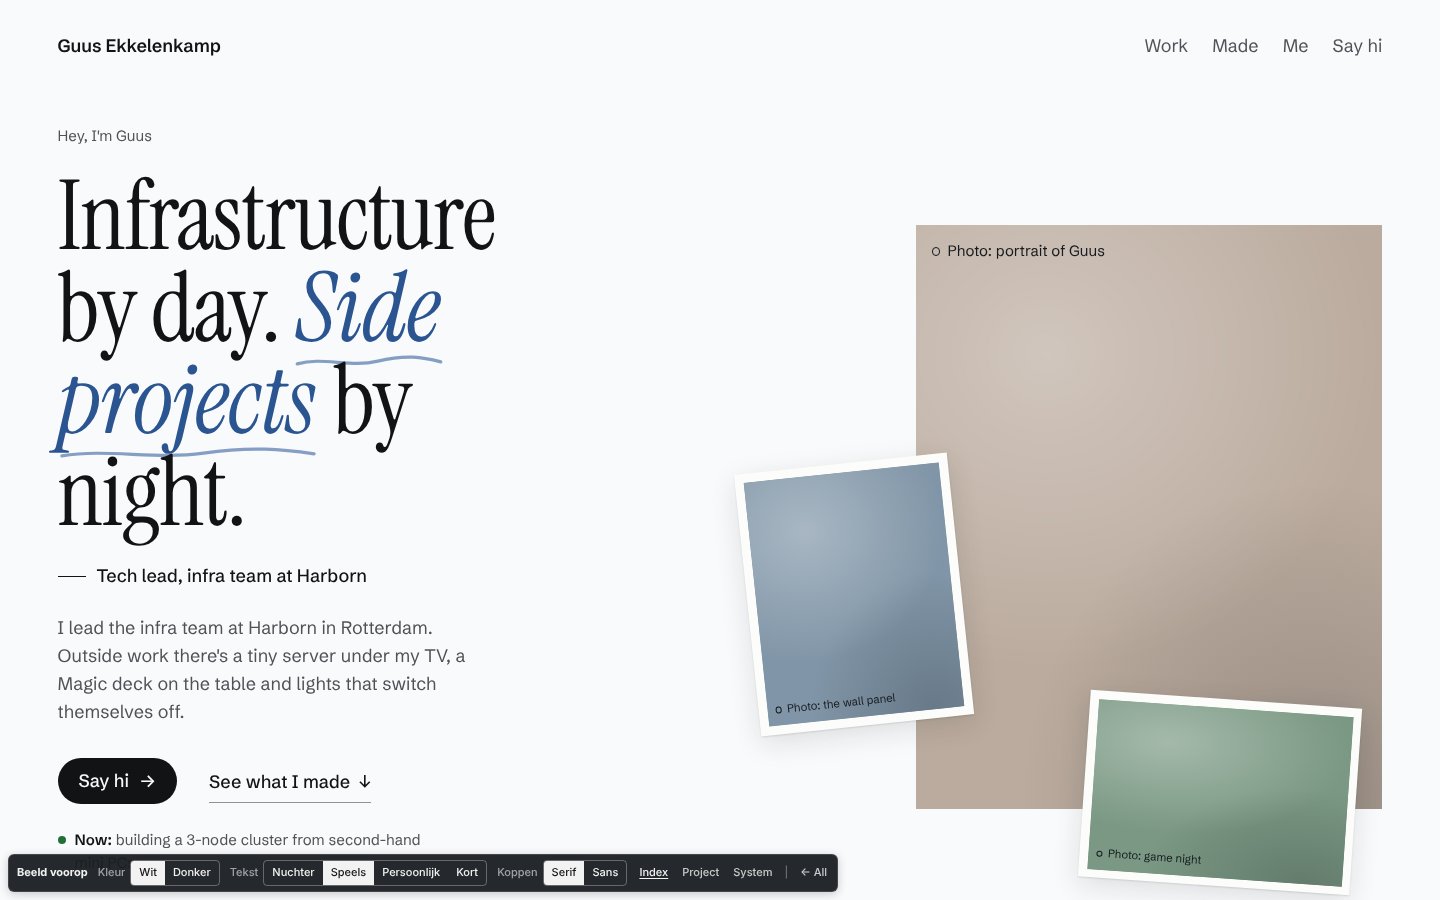
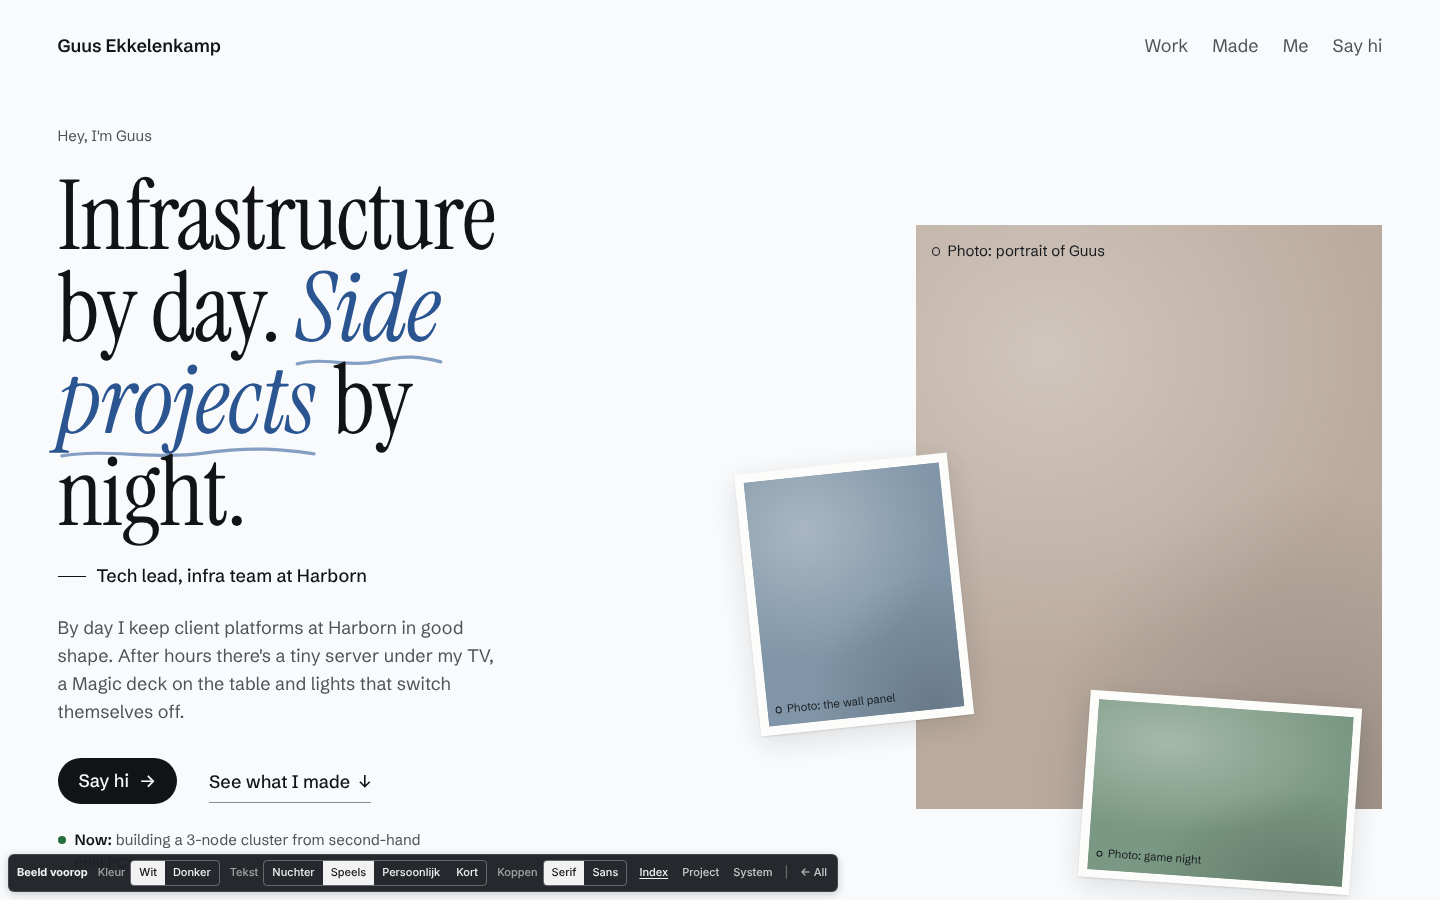
Beeld voorop: playful pass, copy voices and heading styles
Claude-Session: https://claude.ai/code/session_01MZiGAcmWGZMW18cgyC5YR7

Changed region(s): [[0.0312, 0.6844, 0.3438, 0.7778]]

diff --git a/design/directions/r2-beeld/system.html b/design/directions/r2-beeld/system.html
@@ -85,7 +85,7 @@
       </div>
 
       <h3 class="h3" style="margin-block: var(--space-2xl) var(--space-xs)">Photo tones</h3>
-      <p class="sg-note">One muted colour per image, the same in both options, because a real photo doesn&rsquo;t change with the background. Each placeholder gets a soft light fall-off and a faint grain so it reads as a photo slot, not a grey box. Label ink on each tone is measured too.</p>
+      <p class="sg-note">Each project also has its own <em>ink</em> (its tone, deepened per option) for the caption dot, hover colour and the image-label chip. One muted colour per image, the same in both options, because a real photo doesn&rsquo;t change with the background. Each placeholder gets a soft light fall-off and a faint grain so it reads as a photo slot, not a grey box. Label ink on each tone is measured too.</p>
       <div class="tones" id="tones"></div>
     </div>
   </section>
@@ -94,11 +94,12 @@
     <div class="page">
       <h2 class="h2" id="type-title">Type</h2>
       <p class="sg-note"><strong>Instrument Serif</strong> for big moments only: the intro headline, section titles, project titles, numbers and the email address. It&rsquo;s condensed and elegant, so a large headline sits calmly next to a portrait like a magazine cover line. <strong>Schibsted Grotesk</strong> for everything else: a newspaper-born sans with sturdy, slightly quirky shapes that keeps captions and body text clear without feeling like a default UI font.</p>
-      <div class="type-row"><code>--step-hero · serif</code><p class="display" style="font-size: var(--step-hero)">I&rsquo;m Guus.</p></div>
-      <div class="type-row"><code>--step-giant · serif</code><p class="display" style="font-size: var(--step-giant)">Homelab &amp; home</p></div>
-      <div class="type-row"><code>--step-5 · serif · h2</code><p class="h2">Projects</p></div>
-      <div class="type-row"><code>--step-3 · serif · case h2</code><p class="display" style="font-size: var(--step-3)">What I learned</p></div>
-      <div class="type-row"><code>--step-1 · serif · item title</code><p class="item__title">Scryfall, in plain words</p></div>
+      <p class="sg-note"><strong>Koppen</strong> (<code>data-type</code>, tokens only): <em>Serif</em> (a) sets headings in Instrument Serif 400, big and tight; <em>Sans</em> (b) sets them in Schibsted Grotesk 600 at 0.8&times; the scale with tighter tracking (&minus;0.045em). In both, the one <code>&lt;em&gt;</code> phrase per headline stays an italic Instrument Serif in the accent, with a hand-drawn line that draws itself in once (instant under reduced motion).</p>
+      <div class="type-row"><code>--step-hero · heading + em</code><p class="display" style="font-size: calc(var(--step-hero) * var(--heading-scale))">Builds things. <em>Usually</em> finishes them.</p></div>
+      <div class="type-row"><code>--step-giant · heading</code><p class="display" style="font-size: var(--step-giant)">Homelab &amp; home</p></div>
+      <div class="type-row"><code>--step-5 · heading · h2</code><p class="h2">Projects</p></div>
+      <div class="type-row"><code>--step-3 · heading · case h2</code><p class="display" style="font-size: var(--step-3)">What I learned</p></div>
+      <div class="type-row"><code>--step-1 · heading · item title</code><p class="item__title">Scryfall, in plain words</p></div>
       <div class="type-row"><code>--step-1 · sans · lead</code><p class="lead">I live in Rotterdam and build things at home.</p></div>
       <div class="type-row"><code>--step-0 · sans · body</code><p>I make sure the platforms our clients run on are secure, reliable and well thought out.</p></div>
       <div class="type-row"><code>--step-0 · sans 600 · h3</code><p class="h3">Cloud &amp; platform</p></div>
@@ -134,6 +135,15 @@
         </div>
       </div>
 
+      <p class="sg-label">Loose prints (hero) · tilted / straightened on hover</p>
+      <div class="demo-box" style="padding-block: var(--space-xl)">
+        <div class="states" style="gap: var(--space-2xl)">
+          <figure style="width: 180px"><div class="print" style="position: relative; --tilt: -6deg"><div class="ph" style="--tone: var(--tone-homelab); --ratio: 4 / 5" role="img" aria-label="Example print"><div class="ph__inner"></div><span class="ph__label" aria-hidden="true">Photo</span></div></div><figcaption style="margin-top: var(--space-m)">rest: rotate(var(--tilt))</figcaption></figure>
+          <figure style="width: 180px"><div class="print" style="position: relative; --tilt: 0deg; transform: translateY(-6px) scale(1.03)"><div class="ph" style="--tone: var(--tone-rules-of-99); --ratio: 4 / 5" role="img" aria-label="Example print, hover"><div class="ph__inner"></div><span class="ph__label" aria-hidden="true">Photo</span></div></div><figcaption style="margin-top: var(--space-m)">hover: straight, lifted (spring ease)</figcaption></figure>
+          <figure><p class="now" style="margin: 0"><span class="now__dot" aria-hidden="true"></span><span><strong style="font-weight: 600; color: var(--ink)">Now:</strong> building a 3-node cluster.</span></p><figcaption>Now line: live dot, pulse off under reduced motion</figcaption></figure>
+        </div>
+      </div>
+
       <p class="sg-label">Project feature (full-bleed image, title set below)</p>
       <div class="demo-box" id="feature-demo" style="padding: 0"></div>
 
@@ -147,6 +157,8 @@
       <p class="sg-label">Link &amp; button · default / hover / focus</p>
       <div class="demo-box">
         <div class="states">
+          <figure><a class="button" href="#colour">Get in touch <span aria-hidden="true">&rarr;</span></a><figcaption>button (primary CTA): ink pill, accent on hover, arrow bounces once</figcaption></figure>
+          <figure><a class="button is-focus" href="#colour">Get in touch <span aria-hidden="true">&rarr;</span></a><figcaption>button focus-visible</figcaption></figure>
           <figure><a class="arrow-link" href="#colour">Read the project <span aria-hidden="true">&rarr;</span></a><figcaption>default</figcaption></figure>
           <figure><a class="arrow-link is-hover" href="#colour">Read the project <span aria-hidden="true">&rarr;</span></a><figcaption>hover</figcaption></figure>
           <figure><a class="arrow-link is-focus" href="#colour">Read the project <span aria-hidden="true">&rarr;</span></a><figcaption>focus-visible</figcaption></figure>
@@ -216,10 +228,16 @@
 
   var TONES = [["portrait","Portrait"],["homelab","Homelab"],["rules-of-99","Rules of 99"],["finds","2nd-hand finds"],["quizmaster","Quizmaster"],["scryfall","Scryfall"],["friends","About"]];
   var root = document.documentElement;
+  function renderTones() {
   document.getElementById("tones").innerHTML = TONES.map(function (t, i) {
     var v = ratio(tok(root, "--ph-ink"), tok(root, "--tone-" + t[0]));
-    return '<figure><div class="ph" data-r="' + (i % 2) + '" style="--tone: var(--tone-' + t[0] + ')" role="img" aria-label="Tone for ' + t[1] + '"><div class="ph__inner"></div><span class="ph__label" aria-hidden="true">' + t[1] + '</span></div><figcaption class="caption tnum">--tone-' + t[0] + "<br>label " + v.toFixed(2) + ":1</figcaption></figure>";
+    var ink = tok(root, "--pink-" + t[0]);
+    var vi = ink ? ratio(ink, tok(root, "--surface")) : 0;
+    return '<figure><div class="ph" data-r="' + (i % 2) + '" style="--tone: var(--tone-' + t[0] + ')" role="img" aria-label="Tone for ' + t[1] + '"><div class="ph__inner"></div><span class="ph__label" aria-hidden="true">' + t[1] + '</span></div><figcaption class="caption tnum">--tone-' + t[0] + "<br>label " + v.toFixed(2) + ":1" + (vi ? '<br><span style="color: var(--pink-' + t[0] + ')">project ink</span> ' + vi.toFixed(2) + ":1 on surface" : "") + "</figcaption></figure>";
   }).join("");
+  }
+  renderTones();
+  new MutationObserver(renderTones).observe(root, { attributes: true, attributeFilter: ["data-option"] });
 })();
 </script>
 <script src="review.js"></script>

diff --git a/design/directions/r2-beeld/beeld.css b/design/directions/r2-beeld/beeld.css
@@ -11,7 +11,7 @@
     --p-n-25:  oklch(98.6% 0.002 250);
     --p-n-50:  oklch(96.2% 0.003 250);
     --p-n-150: oklch(89.5% 0.004 250);
-    --p-n-300: oklch(66% 0.006 250);
+    --p-n-300: oklch(64.5% 0.006 250);
     --p-n-450: oklch(56% 0.008 250);
     --p-n-600: oklch(44% 0.008 250);
     --p-n-800: oklch(27% 0.007 250);

diff --git a/design/directions/r2-beeld/README.md b/design/directions/r2-beeld/README.md
@@ -69,3 +69,20 @@ show the intended mood: muted slate, moss, sand, rose and sea-grey, never satura
   the link button. All of it is cut by `prefers-reduced-motion` through `base.css`.
 - Open copy items: Quizmaster stack and story, the Scryfall stack, LinkedIn URL, Terraform in the
   tools line, and "Before Harborn" (left out until confirmed).
+
+## Round 2b: a bit more playful
+- **Voices:** `../../system/copy.js` is loaded on index and project; every keyed element carries
+  `data-copy`, the HTML ships the *nuchter* strings and the review bar swaps the voice. The headline
+  no longer holds the job: `hero.role` is a small role line under it. Long headlines (Persoonlijk)
+  get `data-len="long"` and step down in size, so every voice fits from 320px up.
+- **`<em>`:** italic Instrument Serif in the accent, with a hand-drawn line (inline SVG) that draws
+  itself in once. It works in both Koppen styles; in Sans it's the one serif moment.
+- **Koppen (`data-type`, tokens only):** `a` "Serif" (Instrument Serif, big and tight) and `b` "Sans"
+  (Schibsted Grotesk 600, 0.8× scale, tighter tracking).
+- **Playful moves:** two loose prints overlap the portrait at slight angles and straighten on hover
+  (spring ease); each project has its own ink (dot before the title, hover colour, image-label
+  chip); a "Now" line with a live dot; the primary CTA arrow bounces once on hover. Everything
+  respects `prefers-reduced-motion`.
+- **Review bar:** Kleur · Tekst · Koppen, from `?option=`, `?copy=`, `?type=`, then localStorage;
+  changes update the URL with `replaceState`. Below 600px the groups fold behind "Opties".
+- Shoot two extra hero photos: the wall panel (4:5) and a game night on the table (3:2).
